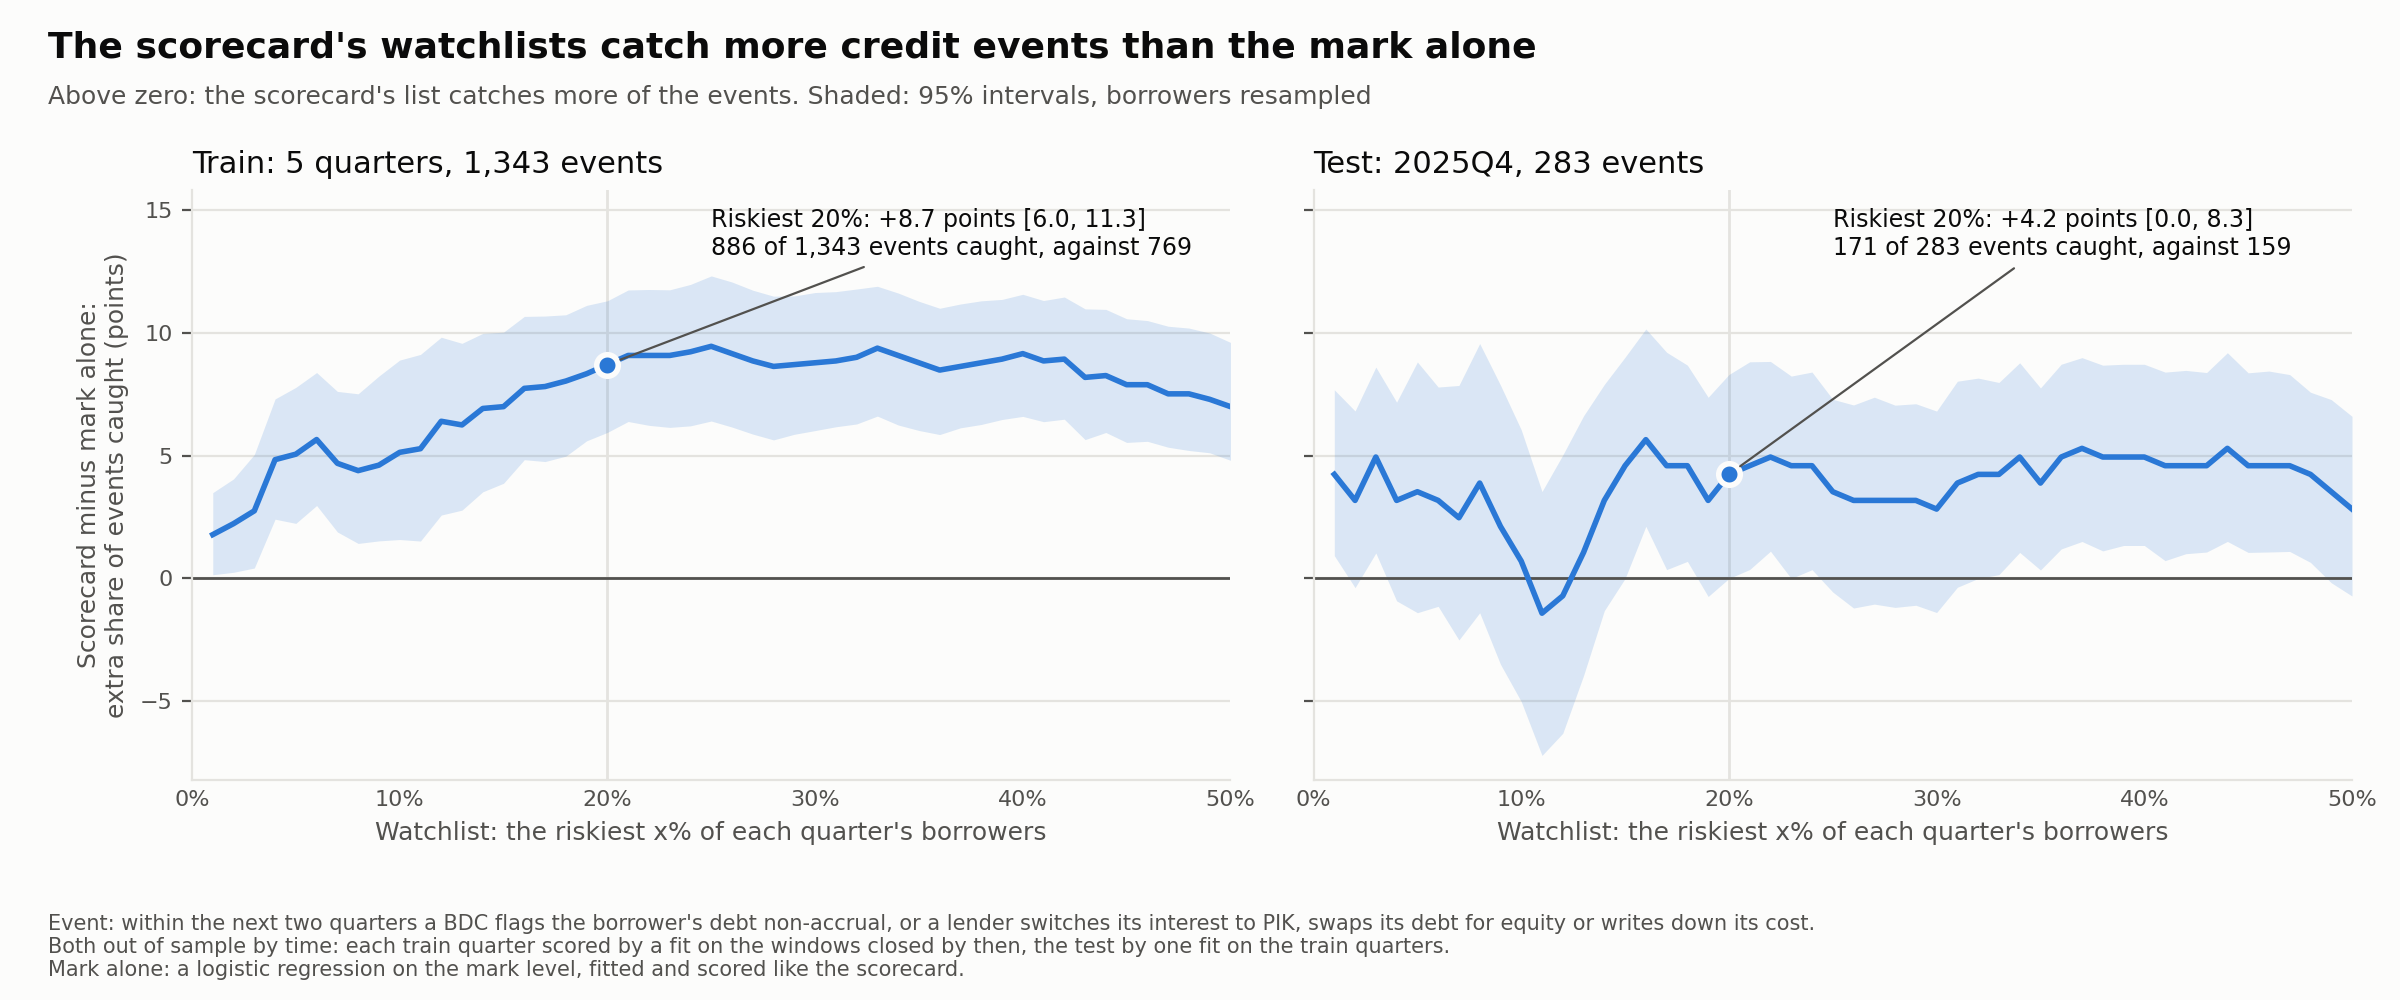
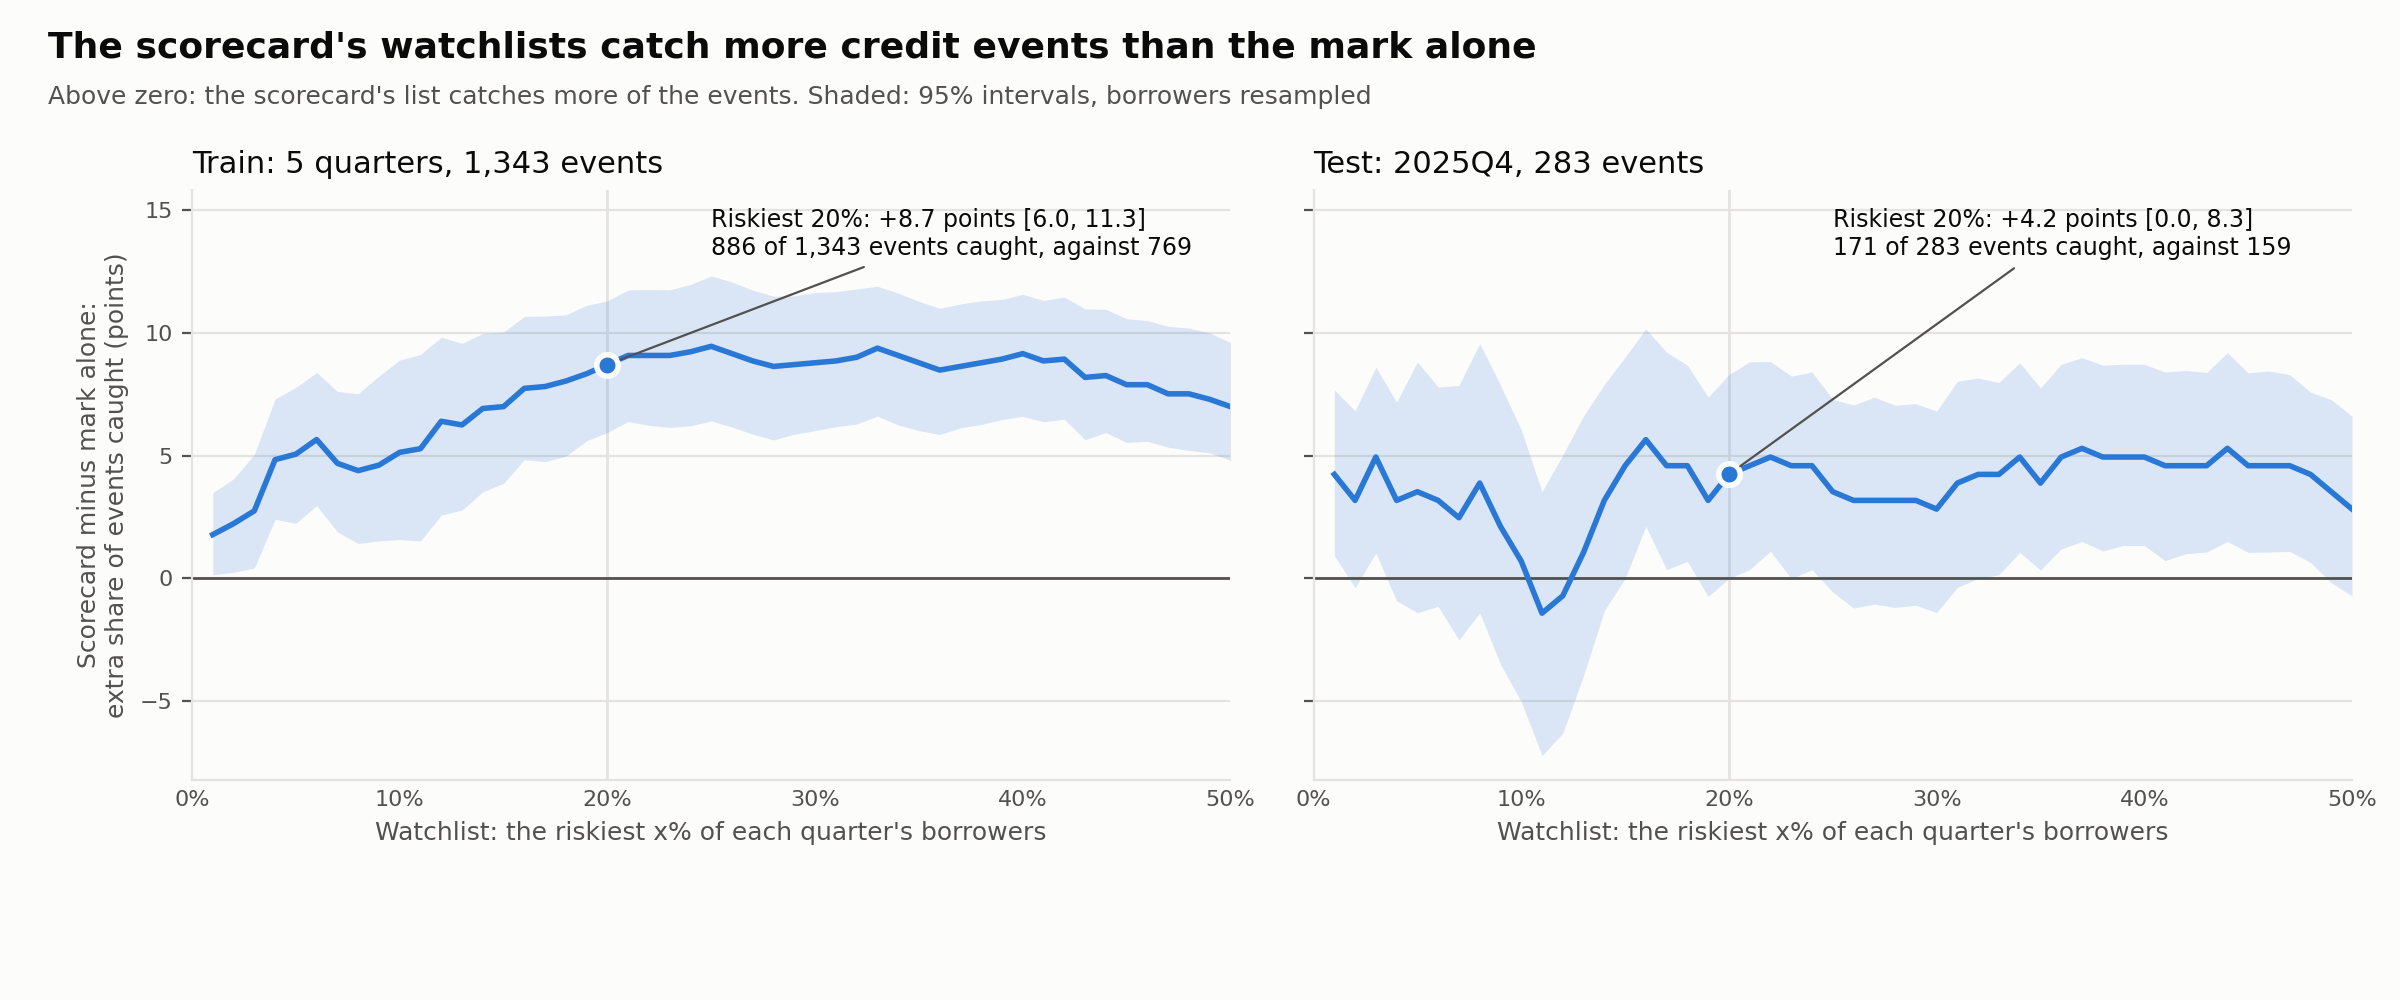
Model plots: remove the footnote under each plot

Changed region(s): [[0.0312, 0.899, 0.75, 0.992]]

diff --git a/src/9_prediction/plots.py b/src/9_prediction/plots.py
@@ -14,8 +14,6 @@ import pandas as pd
 from charts import BLUE, GRID, INK, MUTED, ORANGE, SURFACE, _spread, _style
 from specs import SCORECARD
 
-EVENT_NOTE = ("Event: within the next two quarters a BDC flags the borrower's debt non-accrual, or a lender switches "
-              "its interest to PIK, swaps its debt for equity or writes down its cost")
 COUNT_WORDS = {2: "Two", 3: "Three", 4: "Four", 5: "Five", 6: "Six"}
 
 SCORECARD_UNITS = {"price": "Mark 10 points lower", "fall_1q": "Mark fell 5 points\nthis quarter",
@@ -39,10 +37,6 @@ def _title(fig, title: str, subtitle: str | None = None):
     fig.text(0.02, 0.97, title, ha="left", va="top", fontsize=13, color=INK, weight="bold")
     if subtitle:
         fig.text(0.02, 0.915, subtitle, ha="left", va="top", fontsize=9, color=MUTED)
-
-
-def _note(fig, text: str):
-    fig.text(0.02, 0.02, text, ha="left", va="bottom", fontsize=7.5, color=MUTED)
 
 
 def _rate_bars(ax, x, rate, lo, hi, color=BLUE, width=0.62):
@@ -75,9 +69,6 @@ def event_rate_by_predictor(t: pd.DataFrame, path, window: str):
     _title(fig, "Borrowers with a credit event within two quarters, by warning sign",
            f"Accruing borrowers, all BDCs' loans pooled; signs from {window}. "
            f"Dashed line: average event rate, {base:.2f}%. Whiskers: 95% intervals")
-    _note(fig, EVENT_NOTE + " (exits unlabelled).\nUnder each bar: events / borrower-quarters. "
-               "The valuation gap needs a loan held by 2+ manager families ('single lender' otherwise). "
-               "Points = cents per dollar of par.")
     fig.subplots_adjust(left=0.06, right=0.98, top=0.86, bottom=0.13, hspace=0.62, wspace=0.2)
     fig.savefig(path, dpi=200, facecolor=SURFACE)
     plt.close(fig)
@@ -118,7 +109,6 @@ def odds_ratios(coefs: pd.DataFrame, path, window: str):
     _title(fig, f"{n} warning signs, each multiplying the odds of a credit event",
            f"Logistic regression on the {n.lower()} together; accruing borrowers, signs from {window}; "
            "95% intervals clustered by borrower")
-    _note(fig, EVENT_NOTE + ".")
     fig.subplots_adjust(left=0.22, right=0.97, top=0.83, bottom=0.2)
     fig.savefig(path, dpi=200, facecolor=SURFACE)
     plt.close(fig)
@@ -164,9 +154,6 @@ def predictor_correlations(co: pd.DataFrame, path, window: str):
     _title(fig, f"The signs overlap little: the largest VIF is {co['vif'].max():.2f}",
            f"Pearson correlations of the scorecard's signs on the {int(co['n_obs'].iloc[0]):,} borrower-quarters "
            f"it is fitted on ({window}), capped as in the fit")
-    _note(fig, "Blue: positive correlation; orange: negative. VIF = 1 / (1 − R²) of each sign on the other "
-               f"{COUNT_WORDS.get(n - 1, str(n - 1)).lower()}, the factor by which the overlap inflates its coefficient's variance\n(1 = none; 5–10 is "
-               "the usual warning line). The quarter's change is entered as a fall, so a fall is positive.")
     fig.subplots_adjust(left=0.2, right=0.97, top=0.84, bottom=0.17)
     fig.savefig(path, dpi=200, facecolor=SURFACE)
     plt.close(fig)
@@ -195,8 +182,6 @@ def score_deciles(dec: pd.DataFrame, path, events: str, fitted: str):
     axes[0].set_ylim(bottom=0)
     _title(fig, f"Out of sample: credit events in {events}, by score decile",
            f"Fitted on {fitted} only. Bars: realized rate; whiskers: 95% intervals")
-    _note(fig, EVENT_NOTE + ".\nUnder each decile: its events. The mark alone is a logistic regression on the mark "
-               "level, fitted and tested like the scorecard.")
     fig.subplots_adjust(left=0.07, right=0.98, top=0.83, bottom=0.17, wspace=0.06)
     fig.savefig(path, dpi=200, facecolor=SURFACE)
     plt.close(fig)
@@ -237,9 +222,6 @@ def capture_gap(t: pd.DataFrame, path, mark_at: float = 0.20, xmax: float = 0.50
         ax.set_xlabel("Watchlist: the riskiest x% of each quarter's borrowers", color=MUTED, fontsize=9)
     _title(fig, "The scorecard's watchlists catch more credit events than the mark alone",
            "Above zero: the scorecard's list catches more of the events. Shaded: 95% intervals, borrowers resampled")
-    _note(fig, EVENT_NOTE + ".\nBoth out of sample by time: each train quarter scored by a fit on the windows "
-               "closed by then, the test by one fit on the train quarters.\nMark alone: a logistic regression "
-               "on the mark level, fitted and scored like the scorecard.")
     fig.subplots_adjust(left=0.08, right=0.98, top=0.81, bottom=0.22, wspace=0.08)
     fig.savefig(path, dpi=200, facecolor=SURFACE)
     plt.close(fig)
@@ -295,8 +277,6 @@ def list_disagreement(dis: pd.DataFrame, bm: pd.DataFrame, path):
     a2.set_xlabel("Gain, with a paired 95% interval (clear of zero: significant)", color=MUTED, fontsize=9)
     _title(fig, "Where the two watchlists differ, the scorecard's picks have more credit events",
            "Mark alone: a logistic regression on the mark level, fitted and scored like the scorecard")
-    _note(fig, EVENT_NOTE + ".\nIntervals: 500 borrower resamples. Train: signals 2024Q2-2025Q2, each quarter scored by "
-               "a fit on earlier quarters only (out of sample); test: one fit on the train quarters.")
     fig.subplots_adjust(left=0.06, right=0.98, top=0.8, bottom=0.2, wspace=0.22)
     fig.savefig(path, dpi=200, facecolor=SURFACE)
     plt.close(fig)
@@ -320,8 +300,6 @@ def event_profile(p: pd.DataFrame, path, window: str):
     ax.set_xlabel("Quarters before the credit event", color=MUTED, fontsize=9)
     _title(fig, "Marks fall before non-accrual; before a concession they barely move",
            "Borrowers entering non-accrual (shaded: middle half), borrowers with a concession only, and borrowers with no event")
-    _note(fig, f"Events in {window} from the labelled risk set (borrower-quarters in brackets). Concession: a switch to PIK, "
-               "a debt-for-equity swap or a cost write-down.\nMark = all BDCs' fair value / par on priceable loans.")
     fig.subplots_adjust(left=0.09, right=0.97, top=0.82, bottom=0.2)
     fig.savefig(path, dpi=200, facecolor=SURFACE)
     plt.close(fig)
